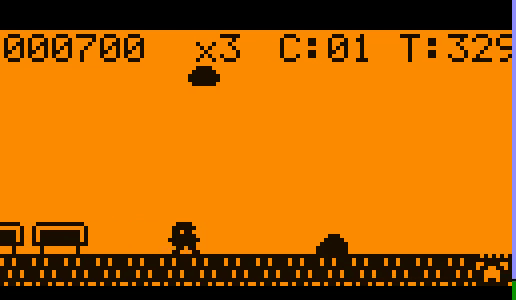
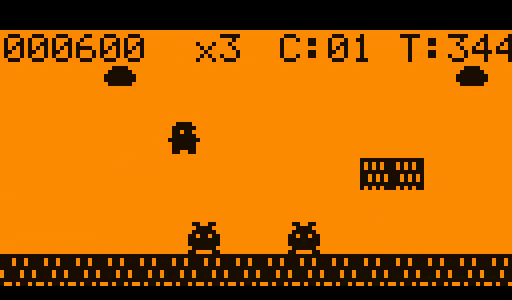
docs: replace README images with title + clean gameplay shot
- Add flipper_title.png: title screen rendered direct from host_sim,
  recolored to the Flipper amber LCD palette
- flipper_1-1.png: re-cropped at 512px wide (was 516) to drop the
  NES-side bleed on the right edge
- Drop the redundant second gameplay frame

diff --git a/README.md b/README.md
@@ -2,8 +2,8 @@
 
 A side-scrolling platformer for the Flipper Zero, ported from the 1985 NES *Super Mario Bros.* The level geometry, physics, and music are derived from the published [SMB1 disassembly (SMBDIS.ASM)](https://github.com/nwoeanhinnogaehr/smb-assembler), scaled down to a 128×64 1-bit screen.
 
-![Flipper port — world 1-1 gameplay (Mario, Goomba, pipes, ?-blocks)](docs/flipper_1-1.png)
-![Flipper port — Mario mid-jump over two Goombas on 1-1](docs/flipper_1-1_jump.png)
+![Title screen — Super Mario Bros on Flipper Zero](docs/flipper_title.png)
+![Gameplay — Mario mid-jump over two Goombas on world 1-1](docs/flipper_1-1.png)
 
 ## Features
 